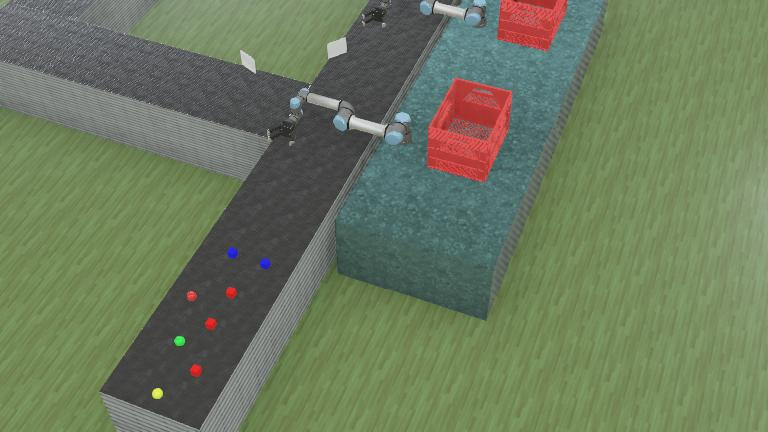
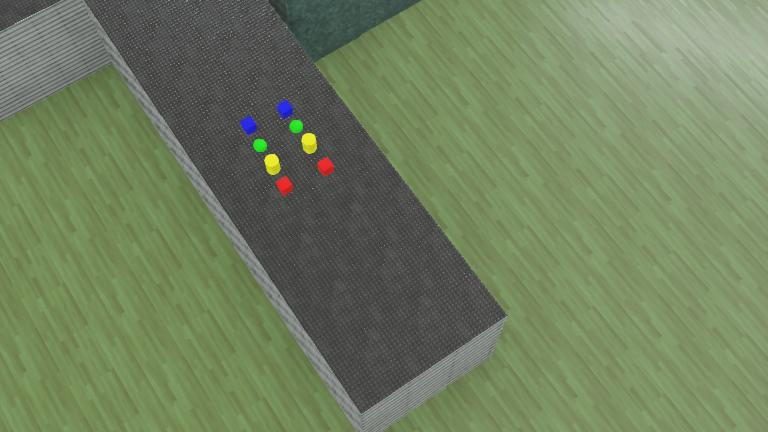
clone_backup_1 add classify color and shape done

diff --git a/controllers/clone_backup_1/camera_utils.py b/controllers/clone_backup_1/camera_utils.py
@@ -282,6 +282,60 @@ def detect_objects_shape_color():
 
     return results
 
+# ------------------------------------------------------------------
+# Object -> Bin classification debug
+# ------------------------------------------------------------------
+
+SORT_RULES = {
+    ("cube", "blue"): "BLUE_CUBE_BIN",
+    ("cube", "red"): "RED_CUBE_BIN",
+    ("cylinder", "yellow"): "YELLOW_CYLINDER_BIN",
+    ("sphere", "green"): "GREEN_SPHERE_BIN",
+}
+
+
+def classify_bin_from_shape_color(shape, color):
+    """
+    Nhận shape + color, trả về tên thùng phân loại.
+    """
+    return SORT_RULES.get((shape, color), "UNKNOWN_BIN")
+
+
+def detect_objects_with_bin():
+    """
+    Detect object như cũ, nhưng thêm field 'bin'.
+    Chưa gắp, chưa tracking, chỉ phân loại.
+    """
+    objects = detect_objects_shape_color()
+
+    for obj in objects:
+        obj["bin"] = classify_bin_from_shape_color(
+            obj["shape"],
+            obj["color"]
+        )
+
+    return objects
+
+
+def debug_print_detected_objects_with_bin():
+    objects = detect_objects_with_bin()
+
+    print(f"\n[SORT DEBUG] detected_objects = {len(objects)}")
+
+    for i, obj in enumerate(objects):
+        pos_text = [round(float(v), 3) for v in obj["position_3d"]]
+
+        print(
+            f"[{i}] "
+            f"id={obj['id']} | "
+            f"model={obj['model']} | "
+            f"shape={obj['shape']} | "
+            f"color={obj['color']} | "
+            f"bin={obj['bin']} | "
+            f"pixel=({round(obj['cx'], 1)}, {round(obj['cy'], 1)}) | "
+            f"area={round(obj['area'], 1)} | "
+            f"pos3d={pos_text}"
+        )
 
 def debug_print_detected_objects():
     objects = detect_objects_shape_color()

diff --git a/controllers/clone_backup_1/clone_backup_1.py b/controllers/clone_backup_1/clone_backup_1.py
@@ -478,20 +478,12 @@ motion.wait_steps(20)
 motion.goto_pose(poses.PICK_ABOVE, steps=80)
 motion.wait_steps(20)
 
-print("=== DYNAMIC PICK LOOP START ===")
-
-print("=== VISION DEBUG ONLY START ===")
+print("=== SORT DEBUG ONLY START ===")
 
 step_count = 0
 
 while robot.step(TIME_STEP) != -1:
     if step_count % 10 == 0:
-        camera_utils.debug_print_detected_objects()
+        camera_utils.debug_print_detected_objects_with_bin()
 
     step_count += 1
-    
-'''
-while robot.step(TIME_STEP) != -1:
-    ok = dynamic_pick_cube()
-    print("[DYNAMIC] Thử lại cube tiếp theo...")
-'''
